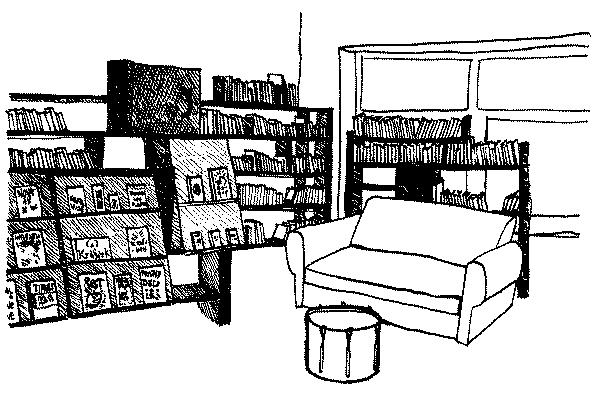
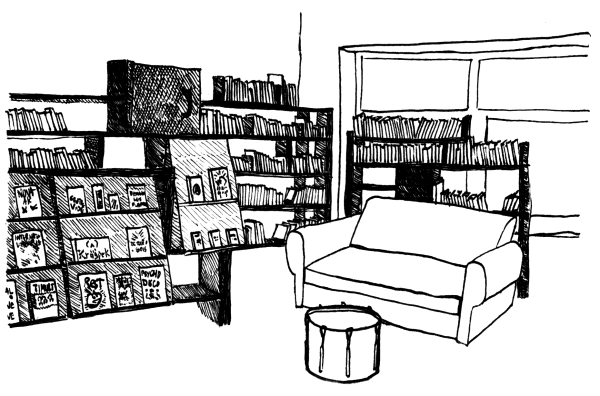
ajout d'illustrations
fix

Changed region(s): [[0.0, 0.0606, 0.99, 0.9697], [0.66, 0.6364, 0.75, 0.6667], [0.48, 0.0606, 0.51, 0.1212]]

diff --git a/pages/biblioblique.vue b/pages/biblioblique.vue
@@ -1,34 +1,31 @@
 <template>
-    <div class="mt-16">
-        <h1 class="font-brand text-4xl uppercase"> {{ evenements.titre }} </h1>
-        <div class="">
-            <nuxt-content :document="evenements" class=""/>
-        </div>
+  <div class="mt-16">
+    <h2>{{ evenements.titre }}</h2>
+    <img class="max-w-xs sm:max-w-md my-10 mx-auto" src="../assets/images/biblioblique.png">
+    <div>
+      <nuxt-content :document="evenements" class />
     </div>
+  </div>
 </template>
 
 <script>
 export default {
-    
-  async asyncData( {$content, params } ) {
-        const evenements = await $content('biblioblique').fetch()
-    return { evenements }
+  async asyncData({ $content, params }) {
+    const evenements = await $content("biblioblique").fetch();
+    return { evenements };
   },
-    head () {
+  head() {
     return {
       title: `La Biblioblique`,
       meta: [
-        { hid: 'description', name: 'description', content: 'La biblioblique est une bibliothèque libre, gratuite et sans inscription. Il est possible de venir emprunter un livre pendant les permanences du Local Autogéré' }
+        {
+          hid: "description",
+          name: "description",
+          content:
+            "La biblioblique est une bibliothèque libre, gratuite et sans inscription. Il est possible de venir emprunter un livre pendant les permanences du Local Autogéré"
+        }
       ]
-    }
-  } 
-}
+    };
+  },
+};
 </script>
-
-<style>
-h2 {
-  @apply font-brand text-4xl sticky bg-white;
-  top: 64px;
-}
-
-</style>

diff --git a/pages/evenements.vue b/pages/evenements.vue
@@ -3,7 +3,6 @@
         <div id="content" class="">
             <nuxt-content :document="evenements" class=""/>
         </div>
-        <a id="back-to-top" @click="backToTop" class="fixed bottom-0 mb-24 -mr-4 right-0 transform rotate-90 ">← Haut de la page</a>
     </div>
 </template>
 
@@ -26,26 +25,13 @@ export default {
       ]
     };
   },
-  methods: {
-     backToTop: function() {
-    window.scroll({
-    top: 0,
-    left: 0,
-    behavior: 'smooth'
-  })
-    }
-  },
-  computed: {
-      showBackToTop() {
-          return document.heigth > window.heigth
-      }
-  }
 }
 </script>
 
 <style>
 h2 {
   @apply font-brand text-4xl sticky bg-white;
+  top: 64px;
 }
 
 </style>

diff --git a/layouts/default.vue b/layouts/default.vue
@@ -84,6 +84,7 @@
   <div class="container mx-auto max-w-screen-md">
     <nuxt />
   </div>
+  <a id="back-to-top" v-if="$route.path !== '/'" @click="backToTop" class="fixed bottom-0 mb-24 -mr-4 right-0 transform rotate-90 ">← Haut de la page</a>
 </div>
 </template>
 
@@ -97,7 +98,14 @@ export default {
   methods: {
     showMenu() {
       this.menuVisible = !this.menuVisible;
-    }
+    },
+     backToTop: function() {
+    window.scroll({
+    top: 0,
+    left: 0,
+    behavior: 'smooth'
+  })
+     }
   }
 }
 </script>

diff --git a/pages/presentation.vue b/pages/presentation.vue
@@ -1,6 +1,6 @@
 <template>
     <div class="mt-16">
-        <h1 class="font-brand text-4xl uppercase"> {{ evenements.titre }} </h1>
+        <h2> {{ evenements.titre }} </h2>
         <img class="max-w-xs sm:max-w-md my-10 mx-auto" src="../assets/images/presentation.png">
         <div class="">
             <nuxt-content :document="evenements" class=""/>
@@ -29,11 +29,3 @@ export default {
   }
 }
 </script>
-
-<style>
-h2 {
-  @apply font-brand text-4xl sticky bg-white;
-  top: 64px;
-}
-
-</style>

diff --git a/app.html b/app.html
@@ -1,0 +1,10 @@
+<!DOCTYPE html>
+<html {{ HTML_ATTRS }}>
+  <head {{ HEAD_ATTRS }}>
+    {{ HEAD }}
+  </head>
+  <body {{ BODY_ATTRS }}>
+    {{ APP }}
+    <script async defer src="https://scripts.withcabin.com/hello.js"></script>
+  </body>
+</html>

diff --git a/content/evenements.md b/content/evenements.md
@@ -6,10 +6,10 @@ published: true
 ## 2020
 
 **Samedi 21 novembre**  
-Présentation du livre Lettres d’insurgé/e/s de Fredy Perlman
-Bus Stop press, 2019, en présence de l'éditeur/traducteur 
+Présentation du livre Lettres d’insurgé/e/s de Fredy Perlman, Bus Stop press, 2019  
+en présence de l'éditeur/traducteur  
 apéro & petite bouffe vegan  
-entrée à prix libre
+entrée à prix libre  
 
 **Samedi 22 février 20h00**  
 Concert de SEB and the rhâââ dicks (one man punk rock band de Lyon).  
@@ -24,14 +24,14 @@ _Si vous voulez venir avec vos disques, contactez-nous à lokal_autogere(at)no-l
 ## 2019
 
 **Vendredi 25 octobre**  
-Concert de Special Friend (indie) et Docks (slowcore)
+Concert de Special Friend (indie) et Docks (slowcore)  
 apéro & petite bouffe vegan  
 entrée à prix libre
 
-**Mardi 15 octobre** 
-Apéro-présentation des Editions Les Grillages, maison d'édition indépendante et pirate.
-Discussion autour des question d'auto-édition, de traduction et de l'accessibilité de textes queer. Comment transmettre nos luttes, nos mémoires, comment les diffuser, les conserver ? Quel rapport avec la légalité, avec internet, avec la lecture à voix haute ? On pourrait aussi parler d'outils d'auto-édition, à relier avec des pratiques déjà présentes à Grenoble ou à développer.
-Petite bouffe prévue et boissons sans alcool.
+**Mardi 15 octobre**   
+Apéro-présentation des Editions Les Grillages, maison d'édition indépendante et pirate.  
+Discussion autour des question d'auto-édition, de traduction et de l'accessibilité de textes queer. Comment transmettre nos luttes, nos mémoires, comment les diffuser, les conserver ? Quel rapport avec la légalité, avec internet, avec la lecture à voix haute ? On pourrait aussi parler d'outils d'auto-édition, à relier avec des pratiques déjà présentes à Grenoble ou à développer.  
+Petite bouffe prévue et boissons sans alcool.  
 À 19h
 
 **Mercredi 15 mai**  

diff --git a/content/biblioblique.md b/content/biblioblique.md
@@ -3,7 +3,7 @@ titre: Biblioblique
 ---
 
 La biblioblique existe depuis 2004.  
-Bibliothèque gratuite et sans inscription, 
+Bibliothèque gratuite et sancwxcs inscription, 
 il suffit de laisser un contact pour emprunter un livre pendant les ouvertures du Local Autogéré.
 La biblioblique a également inauguré une fanzinothèque grenobloise en 2018, 
 regroupant les archives zines de la scène punk/diy/féministe/squat grenobloise (consultation sur place).
